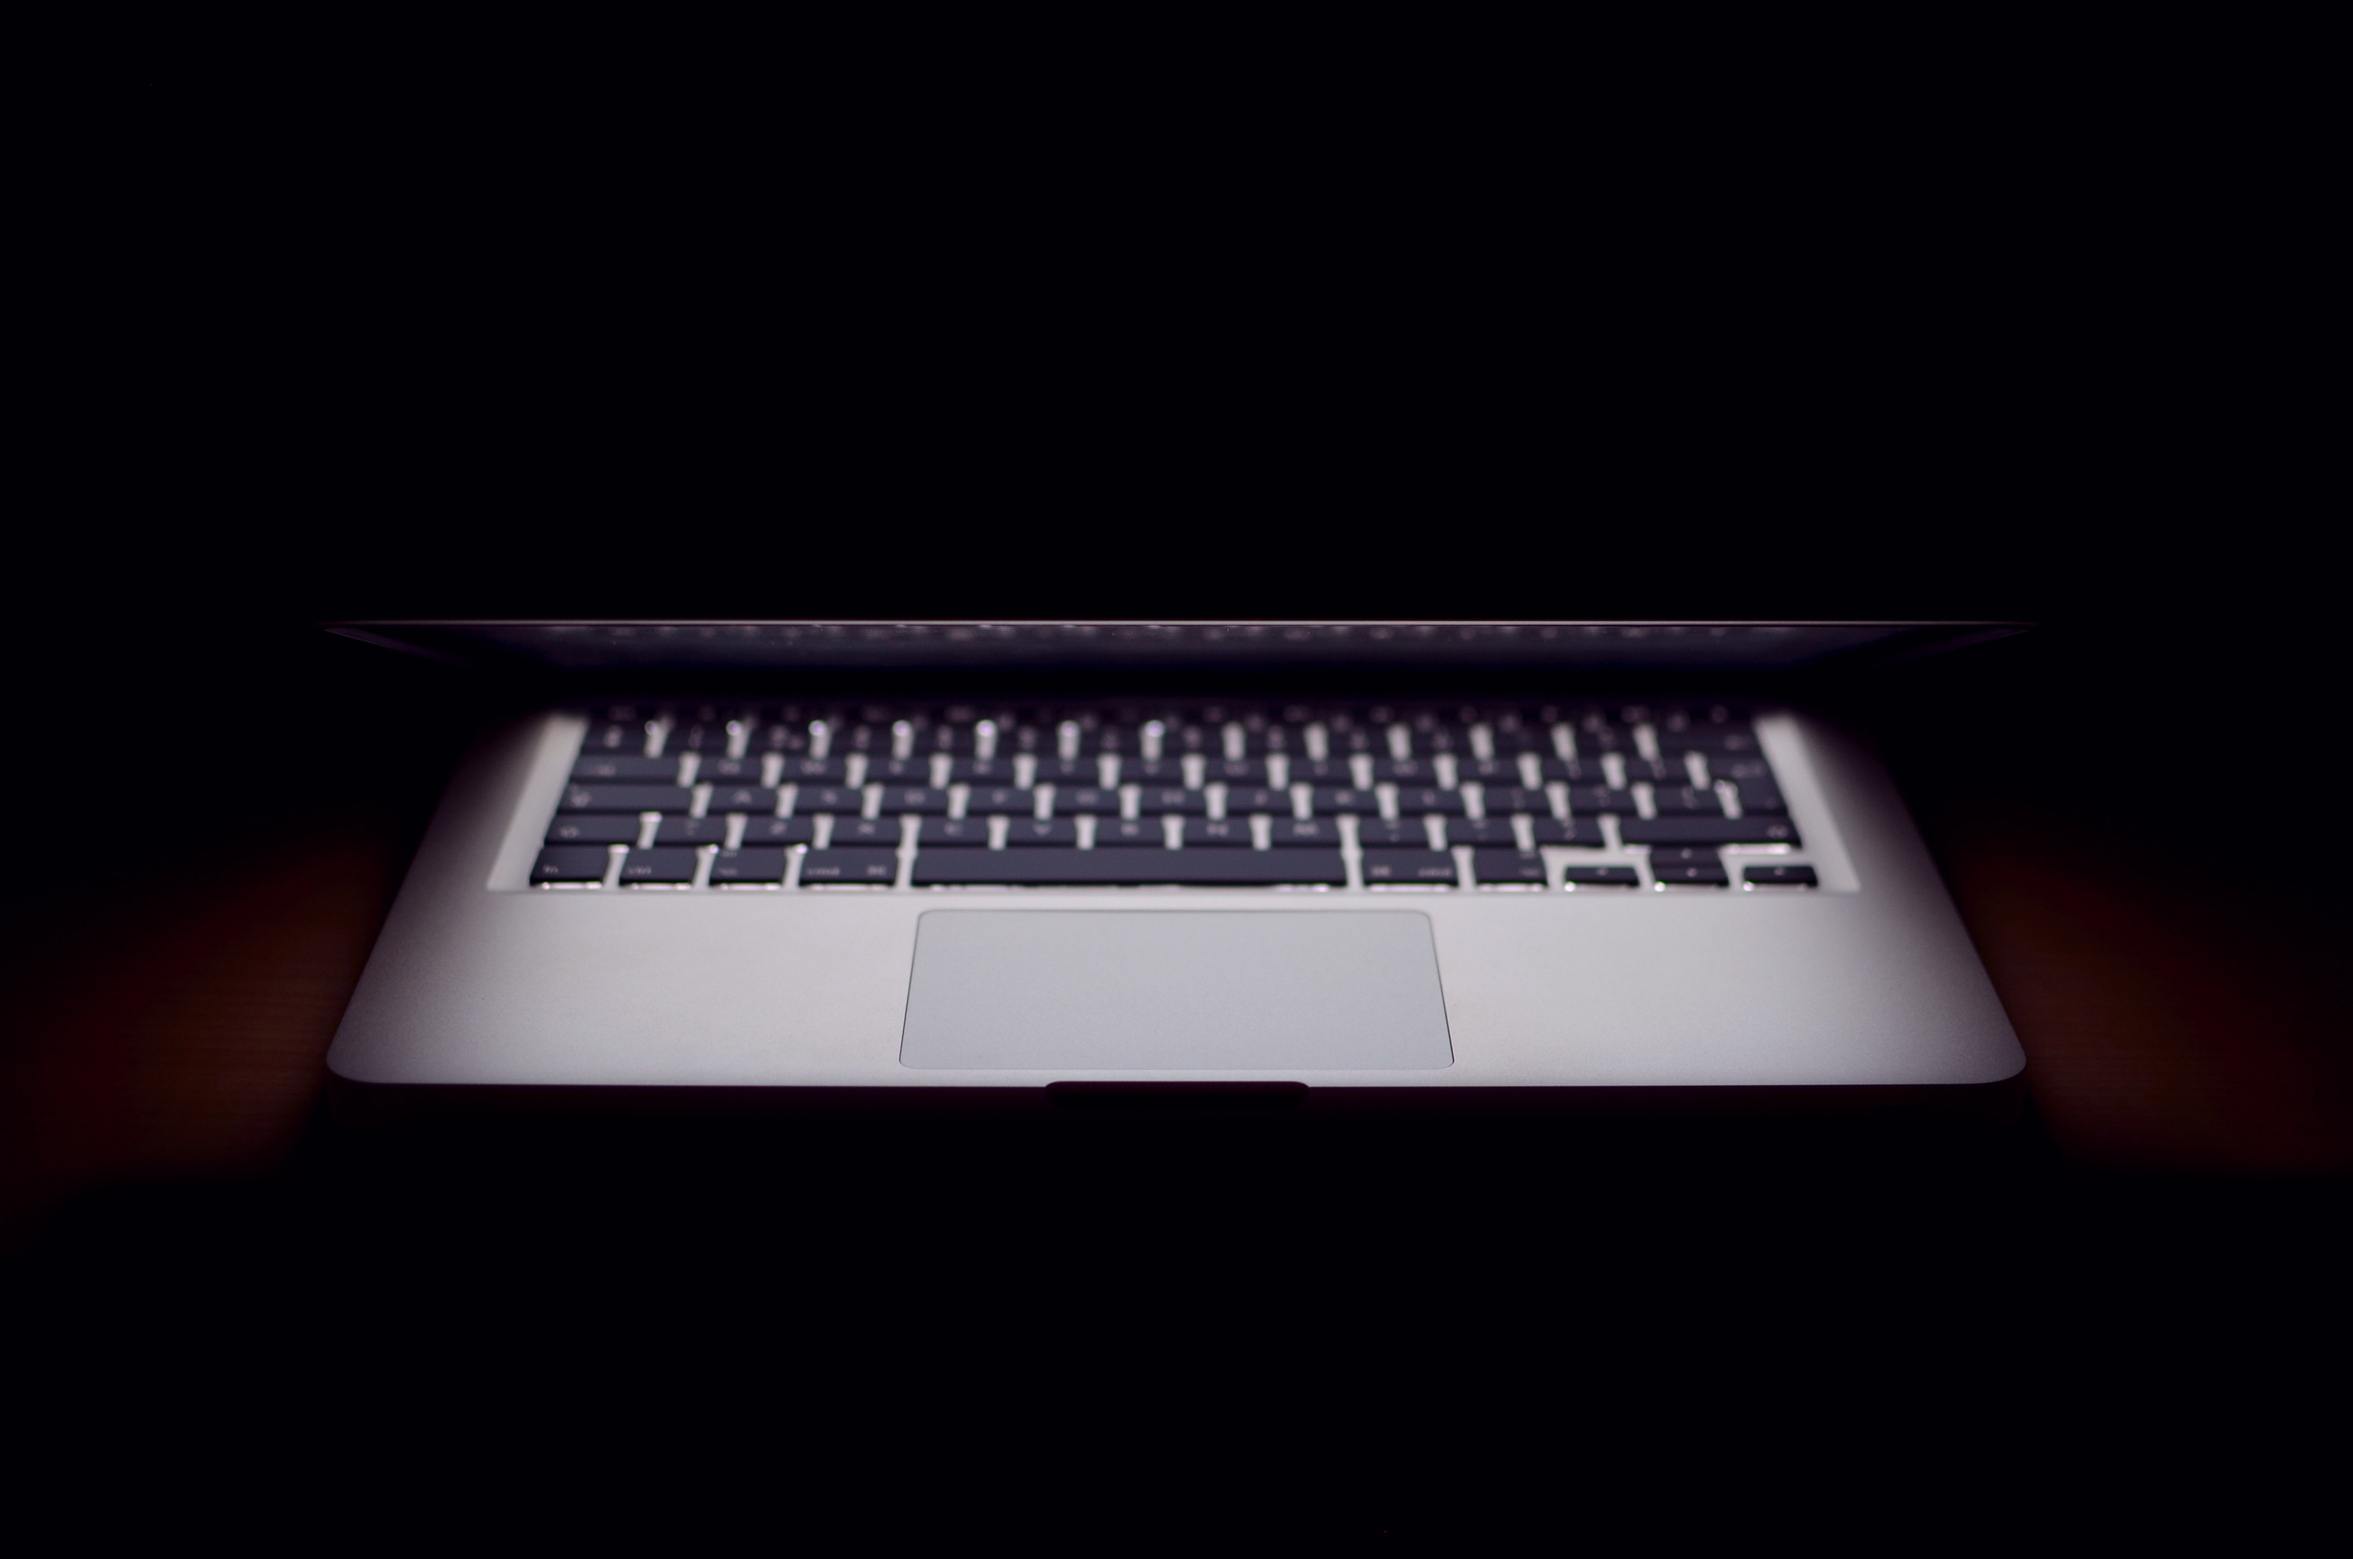
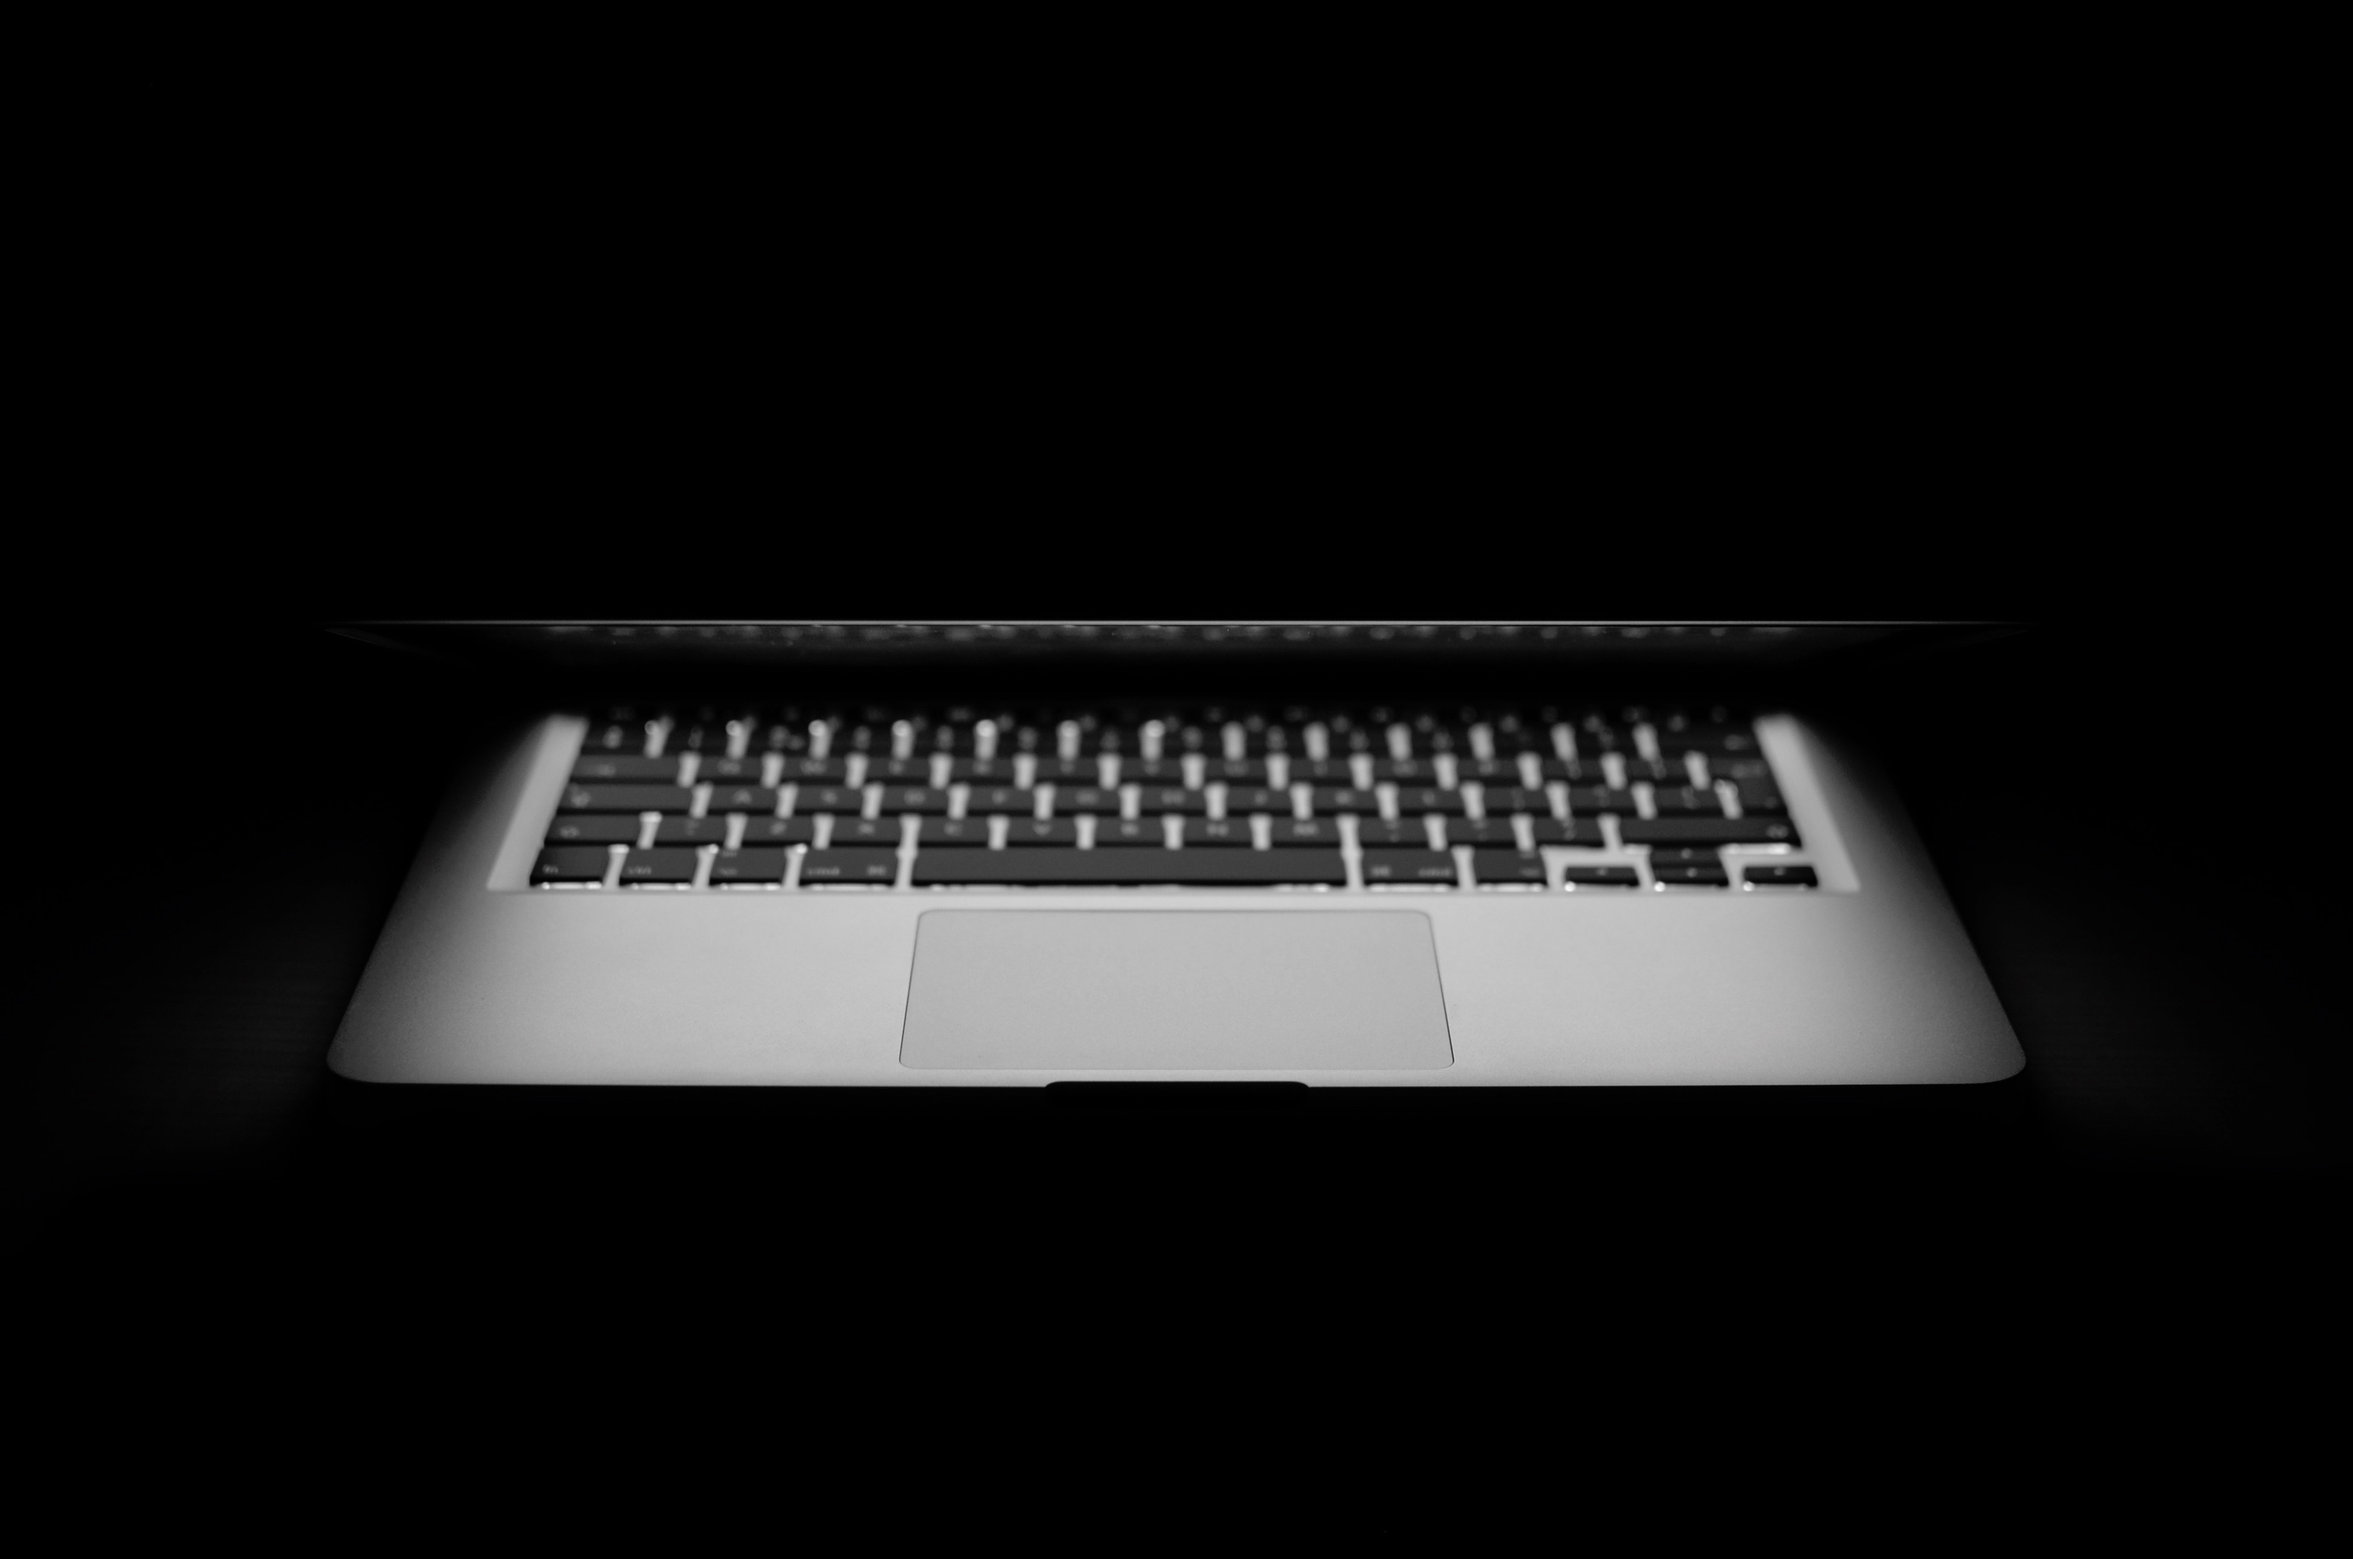
added projects

Changed region(s): [[0.8438, 0.5915, 0.9375, 0.716], [0.0625, 0.5915, 0.1562, 0.716]]

diff --git a/index.html b/index.html
@@ -146,7 +146,44 @@
 		<div class="projects-section-wrap" id="projects-section">
 			<div class="projects-section-container container">
 				<span class="section-title">Projects.</span>
-				<br>
+				<br>  <br>
+        <div class="container">
+          <div class="row">
+            <div class="col-xs-12 col-md-6">
+              <div class="card project-container" style="width: 40rem;">
+                <img class="card-img-top" src="./images/TuTube-home.png" alt="Card image cap">
+                <div class="card-block">
+                  <h4 class="card-title">TuTube</h4>
+                  <p class="card-text">This is a group project I did at DevMountain. This is a full-stack application clone of YouTube. I wrote the endpoints for my team
+                  to interact with YouTube's API and styled pages reflecting data called from the API. Screenshots and more info below</p>
+                  <a href="https://github.com/you-tube-group/you-tube-clone" class="btn btn-secondary">Github Repo</a>
+                </div>
+              </div>
+            </div>
+            <div class="col-xs-12 col-md-6">
+              <div class="card project-container" style="width: 40rem; margin-bottom: 10px;">
+                <img class="card-img-top" src="./images/user-home.png" alt="Card image cap">
+                <div class="card-block">
+                  <h4 class="card-title">P.A.M.</h4>
+                  <p class="card-text">This is a full-stack application created using
+                    the Ionic framework. Users can operate basic CRUD tasks
+                    to set budgets and add/edit transactions. Screenshots and more info below</p>
+                  <a href="https://github.com/mikechi4/PAM" class="btn btn-secondary">Github Repo</a>
+                </div>
+              </div>
+            </div>
+            <div class="col-xs-12 col-md-6">
+              <div class="card project-container" style="width: 40rem;">
+                <img class="card-img-top" src="./images/search.png" alt="Card image cap">
+                <div class="card-block">
+                  <h4 class="card-title">Gifty</h4>
+                  <p class="card-text">This project helped me get more comfortable with Angular and outside APIs. Users could search a term/phrase, and see all gifs related from Giphy's API. Screenshots and more info below</p>
+                  <a href="https://github.com/mikechi4/gif-getter" class="btn btn-secondary">Github Repo</a>
+                </div>
+              </div>
+            </div>
+          </div>
+        </div>
 			</div>
 		</div>
 

diff --git a/styles/sass/styles.css b/styles/sass/styles.css
@@ -64,24 +64,18 @@
   background: url(../../images/projects6.jpg);
   background-size: cover;
   background-repeat: no-repeat;
-  background-position: center;
-  filter: grayscale(100%); }
-  .content-wrap .projects-section-wrap .projects-section-container {
-    height: 100vh; }
-    .content-wrap .projects-section-wrap .projects-section-container .section-body {
-      display: flex;
-      flex-direction: column;
-      align-items: center;
-      justify-content: space-between;
-      height: 70vh;
-      margin-top: 30px; }
+  background-position: center; }
+  .content-wrap .projects-section-wrap .projects-section-container .project-container img {
+    height: 100px; }
+  .content-wrap .projects-section-wrap .projects-section-container .project-container .card-title {
+    color: #eee;
+    text-decoration: underline; }
 .content-wrap .contact-section-wrap {
   height: 100vh;
   background-position: center;
   background: url(../../images/contact.jpg);
   background-size: cover;
   background-repeat: no-repeat;
-  background-position: center;
-  filter: grayscale(100%); }
+  background-position: center; }
 
 /*# sourceMappingURL=styles.css.map */

diff --git a/styles/sass/styles.scss b/styles/sass/styles.scss
@@ -92,16 +92,15 @@ $oswald: 'Oswald', sans-serif;
     @include section-sizing;
     background: url(../../images/projects6.jpg);
     @include background-params;
-    filter: grayscale(100%);
     .projects-section-container {
-      height: 100vh;
-      .section-body {
-        display: flex;
-        flex-direction: column;
-        align-items: center;
-        justify-content: space-between;
-        height: 70vh;
-        margin-top: 30px;
+      .project-container{
+        img{
+          height: 100px;
+        }
+        .card-title{
+          color: #eee;
+          text-decoration: underline;
+        }
       }
     }
   }
@@ -111,7 +110,5 @@ $oswald: 'Oswald', sans-serif;
     background: url(../../images/contact.jpg);
     // background-size: 100% 100%;
     @include background-params;
-    filter: grayscale(100%);
-
   }
 }
